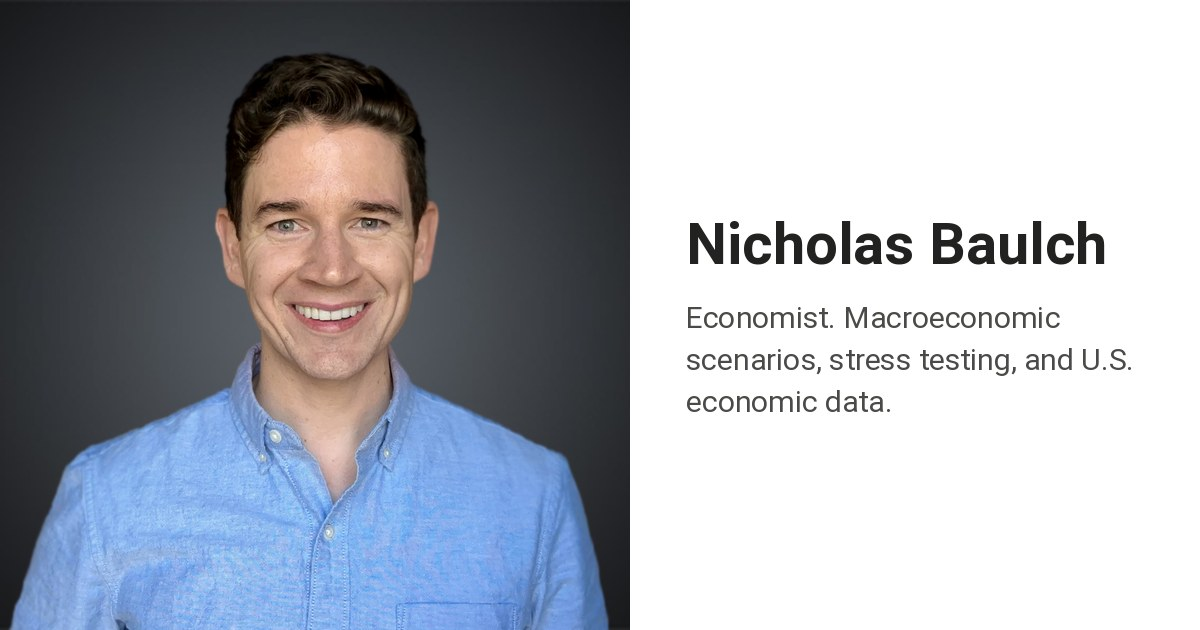
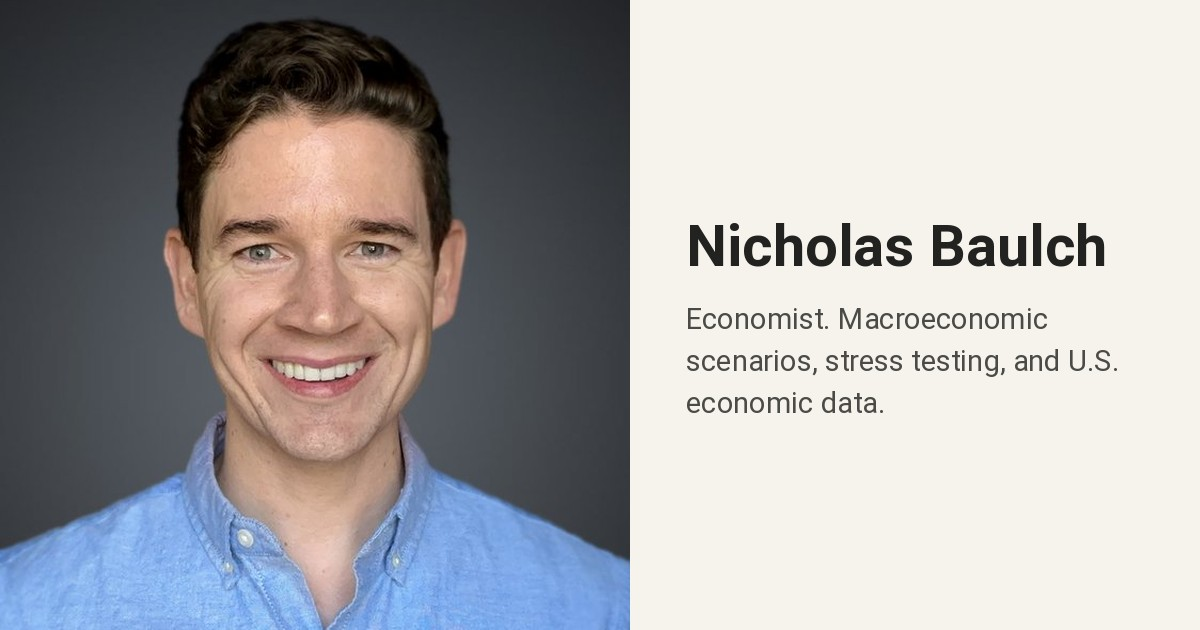
Add a page-not-found page, crop the photo closer, and set the link preview on paper

diff --git a/styles.css b/styles.css
@@ -397,6 +397,13 @@ h2.topics-heading {
   margin-top: 0.15rem;
 }
 
+/* The page-not-found robin: the favicon, drawn larger. */
+.robin {
+  width: 96px;
+  height: 96px;
+  margin: 0 0 var(--space-2);
+}
+
 /* Data tables: compact rows in the chart font, with tabular figures so numbers
    line up. */
 .table {

diff --git a/CLAUDE.md b/CLAUDE.md
@@ -142,7 +142,7 @@ Charts follow `STYLE.md`. The title names what the chart shows, never a finding.
 
 The standard is a site Edward Tufte would recognize: quiet, printed-report restraint, where the charts are the only thing that draws the eye. It should feel like a well-set page, not a web app. Decoration is a failure, not polish.
 
-- **Content first; the design disappears.** No cards, boxes, shadows, icons, badges, banners, animations, or hero images. The photo on the home page and the favicon, a robin perched on a chart line, are the only images that aren't data.
+- **Content first; the design disappears.** No cards, boxes, shadows, icons, badges, banners, animations, or hero images. The photo on the home page and the favicon, a robin perched on a chart line that also appears on the page-not-found page, are the only images that aren't data. Keep the robin to those two places.
 - **Hierarchy comes from size, weight, and space, never from color or ornament.** One thing is the heading on any part of the page, and nothing competes with it. On a chart section that is the chart's own title.
 - **Space shows what belongs together.** Things that go together sit close; separate things sit clearly apart. Space within a unit is always smaller than space between units. One spacing scale, used everywhere; no one-off margins.
 - **One column, one left edge.** The navbar, text, charts, tables, and footer share a 720px column and align to the same left edge. Nothing is centered except by accident of width.
